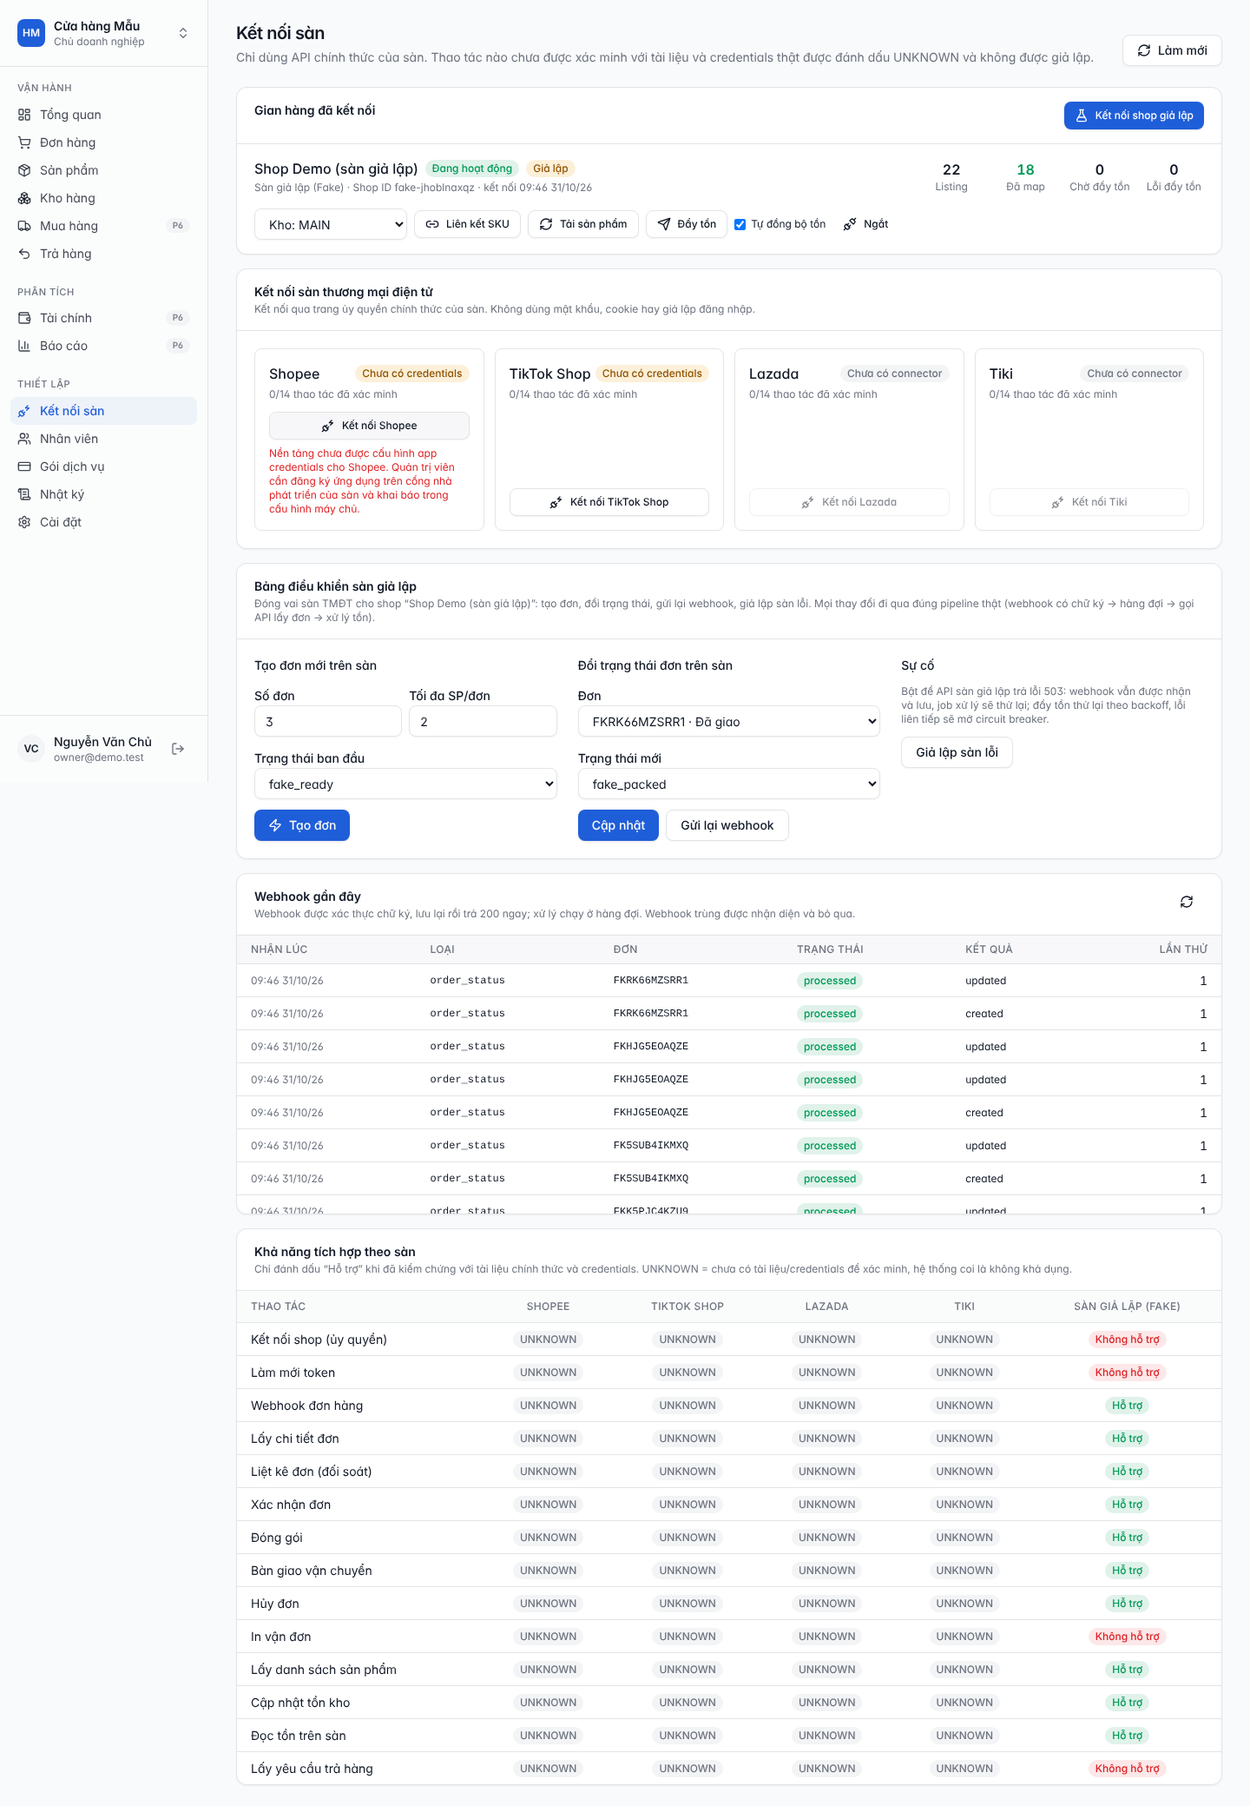
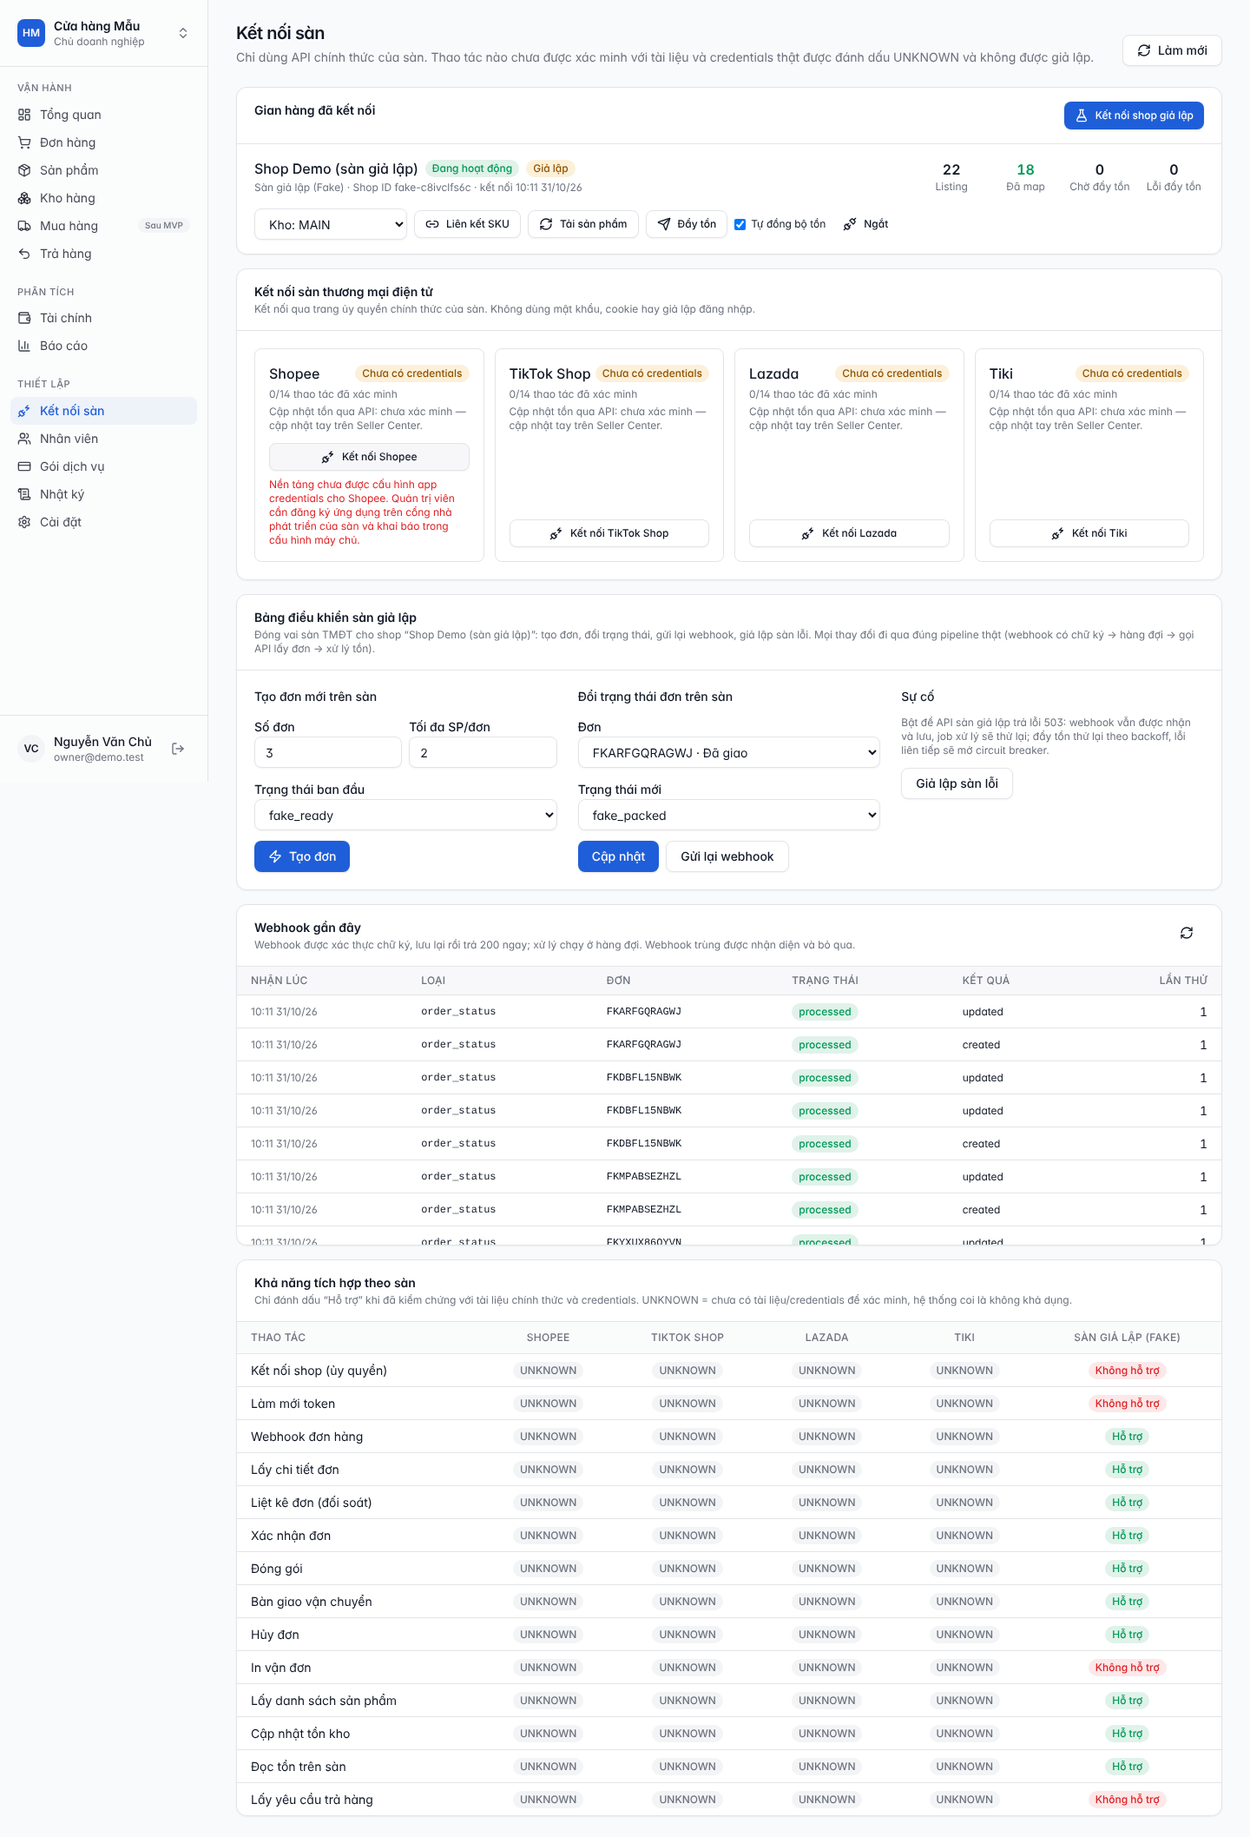
Phase 7: Lazada and Tiki connector skeletons (all capabilities UNKNOWN)
- LazadaConnector, TikiConnector registered; credentials config and .env.example
- Manual stock update guidance where a marketplace cannot (or is not verified to) receive stock via API
- Tests: 6 Pest, 1 Playwright; capability matrix §3.4/3.5, report, screenshot

Claude-Session: https://claude.ai/code/session_01MAbhYsTqNUmf4hXeNZzvjt

diff --git a/resources/js/apps/tenant/pages/marketplaces/Listings.vue b/resources/js/apps/tenant/pages/marketplaces/Listings.vue
@@ -18,7 +18,7 @@ import { api, ApiError } from '@/shared/lib/api';
 import { formatDateTime, formatMoney, formatNumber } from '@/shared/lib/utils';
 import { useToast } from '@/shared/composables/useToast';
 import { useTenantStore } from '@/shared/stores/tenant';
-import { mappingStatus, pushStatus } from '../orders/labels';
+import { manualStockHint, mappingStatus, pushStatus } from '../orders/labels';
 import type { ListingVariantData, MarketplaceAccountData, Variant } from '@/shared/types';
 
 const route = useRoute();
@@ -160,7 +160,8 @@ function pickVariant(v: Variant) {
                             <template v-if="r.push_status">
                                 <Badge :tone="pushStatus[r.push_status]?.tone">{{ pushStatus[r.push_status]?.label ?? r.push_status }}</Badge>
                                 <div v-if="r.last_pushed_qty !== null" class="mt-1 text-muted-foreground">{{ formatNumber(r.last_pushed_qty) }} · {{ formatDateTime(r.last_pushed_at) }}</div>
-                                <div v-if="r.push_error" class="mt-1 text-destructive">{{ r.push_error }}</div>
+                                <div v-if="r.push_status === 'unsupported'" class="mt-1 max-w-56 text-muted-foreground">{{ manualStockHint }}</div>
+                                <div v-else-if="r.push_error" class="mt-1 text-destructive">{{ r.push_error }}</div>
                             </template>
                             <span v-else class="text-muted-foreground">—</span>
                         </td>

diff --git a/e2e/marketplaces.spec.ts b/e2e/marketplaces.spec.ts
@@ -35,3 +35,20 @@ test('TikTok Shop: skeleton connector, connect refused without credentials', asy
     await expect(page.getByTestId('connect-notice-tiktok')).toContainText('chưa được cấu hình app credentials');
     await page.screenshot({ path: 'docs/screenshots/phase-5/01-tiktok-connect-refused.png', clip: { x: 0, y: 0, width: 1440, height: 640 } });
 });
+
+test('Lazada and Tiki: skeleton connectors, connect refused without credentials, manual stock update guidance', async ({ page }) => {
+    await login(page, 'owner@demo.test');
+    await page.goto('/marketplaces');
+    const card = page.getByTestId('real-marketplaces');
+    await expect(card).toContainText('Lazada');
+    await expect(card).toContainText('Tiki');
+    await expect(card).not.toContainText('Chưa có connector');
+    await expect(page.getByTestId('stock-note-tiki')).toContainText('cập nhật tay trên Seller Center');
+
+    await page.getByTestId('connect-lazada').click();
+    await expect(page.getByTestId('connect-notice-lazada')).toContainText('chưa được cấu hình app credentials');
+    await page.getByTestId('connect-tiki').click();
+    await expect(page.getByTestId('connect-notice-tiki')).toContainText('chưa được cấu hình app credentials');
+    await card.scrollIntoViewIfNeeded();
+    await page.screenshot({ path: 'docs/screenshots/phase-7/01-lazada-tiki-connect-refused.png', clip: { x: 0, y: 0, width: 1440, height: 640 } });
+});

diff --git a/resources/js/apps/tenant/pages/marketplaces/Marketplaces.vue b/resources/js/apps/tenant/pages/marketplaces/Marketplaces.vue
@@ -230,9 +230,13 @@ const accountLabel = (a: MarketplaceAccountData) => (a.status !== 'connected' ? 
                         <Badge v-else-if="c.capabilities['shop.authorize'] !== 'supported'" tone="muted">UNKNOWN</Badge>
                         <Badge v-else tone="success">Sẵn sàng</Badge>
                     </div>
-                    <p class="mt-1 flex-1 text-xs text-muted-foreground">
+                    <p class="mt-1 text-xs text-muted-foreground">
                         {{ Object.values(c.capabilities).filter((s) => s === 'supported').length }}/{{ Object.keys(c.capabilities).length }} thao tác đã xác minh
                     </p>
+                    <p v-if="c.capabilities['inventory.update'] !== 'supported'" class="mt-1 flex-1 text-xs text-muted-foreground" :data-testid="`stock-note-${c.key}`">
+                        Cập nhật tồn qua API: {{ c.capabilities['inventory.update'] === 'unsupported' ? 'sàn không hỗ trợ' : 'chưa xác minh' }} — cập nhật tay trên Seller Center.
+                    </p>
+                    <span v-else class="flex-1" />
                     <Button
                         v-if="tenant.can('marketplace.connect')"
                         class="mt-3"

diff --git a/resources/js/apps/tenant/pages/orders/labels.ts b/resources/js/apps/tenant/pages/orders/labels.ts
@@ -115,8 +115,12 @@ export const pushStatus: Record<string, { label: string; tone: Tone }> = {
     retrying: { label: 'Đang thử lại', tone: 'warning' },
     rejected: { label: 'Sàn từ chối', tone: 'danger' },
     failed: { label: 'Lỗi', tone: 'danger' },
-    unsupported: { label: 'Sàn không hỗ trợ', tone: 'muted' },
+    unsupported: { label: 'Cập nhật tay trên sàn', tone: 'muted' },
 };
+
+/** Shown where a marketplace cannot (or is not yet verified to) receive stock updates through its API. */
+export const manualStockHint =
+    'Sàn này chưa cập nhật tồn được qua API. Hãy cập nhật số lượng trên trang quản lý của sàn (Seller Center) theo cột “Có thể bán” trong Kho hàng của ECSO.';
 
 /** Hours left until the ship-by deadline, as a short label ("còn 3 giờ", "quá 2 giờ"). */
 export function deadlineLabel(iso: string | null, now = new Date()): string | null {

diff --git a/tests/Feature/Marketplace/LazadaTikiConnectorTest.php b/tests/Feature/Marketplace/LazadaTikiConnectorTest.php
@@ -1,0 +1,44 @@
+<?php
+
+use App\Modules\Marketplace\Connectors\Capability;
+use App\Modules\Marketplace\Connectors\ConnectorRegistry;
+use App\Modules\Marketplace\Connectors\Lazada\LazadaConnector;
+use App\Modules\Marketplace\Connectors\Tiki\TikiConnector;
+use App\Modules\Marketplace\Models\MarketplaceAccount;
+use App\Modules\Marketplace\Models\WebhookEvent;
+
+beforeEach(function () {
+    [$this->tenant, $this->owner] = tenantWithOwner();
+});
+
+it('registers Lazada and Tiki as skeletons whose capabilities are all UNKNOWN', function (string $key, string $class) {
+    $connector = app(ConnectorRegistry::class)->for($key);
+
+    expect($connector)->toBeInstanceOf($class)
+        ->and(array_unique(array_values($connector->capabilities())))->toBe([Capability::UNKNOWN])
+        // Stock update is UNKNOWN, not claimed as supported nor as unsupported, until the docs are read.
+        ->and($connector->capabilities()[Capability::INVENTORY_UPDATE])->toBe(Capability::UNKNOWN);
+
+    $row = collect(actingInTenant($this->owner, $this->tenant)->getJson('/api/v1/marketplaces')->assertOk()->json('data'))->firstWhere('key', $key);
+    expect($row['available'])->toBeTrue()->and($row['credentials_configured'])->toBeFalse();
+})->with([['lazada', LazadaConnector::class], ['tiki', TikiConnector::class]]);
+
+it('refuses to connect without credentials, and reports UNKNOWN once they exist', function (string $key, array $credentials) {
+    $api = actingInTenant($this->owner, $this->tenant);
+    $api->postJson("/api/v1/marketplace-accounts/authorize/{$key}")->assertStatus(422)->assertJsonPath('code', 'CREDENTIALS_MISSING');
+
+    config(["marketplaces.credentials.{$key}" => $credentials]);
+    $api->postJson("/api/v1/marketplace-accounts/authorize/{$key}")->assertStatus(422)
+        ->assertJsonPath('code', 'UNSUPPORTED_CAPABILITY')->assertJsonPath('state', 'unknown');
+
+    expect(MarketplaceAccount::withoutGlobalScopes()->count())->toBe(0);
+})->with([
+    ['lazada', ['app_key' => 'k', 'app_secret' => 's']],
+    ['tiki', ['client_id' => 'c', 'client_secret' => 's']],
+]);
+
+it('rejects Lazada and Tiki webhooks and keeps them for inspection', function (string $key) {
+    $this->postJson("/api/v1/webhooks/{$key}", ['seller_id' => '1', 'data' => ['order_id' => '9']])->assertStatus(401);
+
+    expect(WebhookEvent::query()->where('marketplace', $key)->value('status'))->toBe(WebhookEvent::REJECTED);
+})->with(['lazada', 'tiki']);

diff --git a/config/marketplaces.php b/config/marketplaces.php
@@ -1,7 +1,9 @@
 <?php
 
 use App\Modules\Marketplace\Connectors\Fake\FakeConnector;
+use App\Modules\Marketplace\Connectors\Lazada\LazadaConnector;
 use App\Modules\Marketplace\Connectors\Shopee\ShopeeConnector;
+use App\Modules\Marketplace\Connectors\Tiki\TikiConnector;
 use App\Modules\Marketplace\Connectors\TikTok\TikTokConnector;
 
 return [
@@ -19,6 +21,8 @@ return [
         // Skeleton: all capabilities UNKNOWN until verified with official docs and partner credentials.
         'shopee' => ShopeeConnector::class,
         'tiktok' => TikTokConnector::class,
+        'lazada' => LazadaConnector::class,
+        'tiki' => TikiConnector::class,
     ],
 
     // App credentials per marketplace (issued by the marketplace's developer portal). Never committed; set on the
@@ -31,6 +35,14 @@ return [
         'tiktok' => [
             'app_key' => env('TIKTOK_SHOP_APP_KEY'),
             'app_secret' => env('TIKTOK_SHOP_APP_SECRET'),
+        ],
+        'lazada' => [
+            'app_key' => env('LAZADA_APP_KEY'),
+            'app_secret' => env('LAZADA_APP_SECRET'),
+        ],
+        'tiki' => [
+            'client_id' => env('TIKI_CLIENT_ID'),
+            'client_secret' => env('TIKI_CLIENT_SECRET'),
         ],
     ],
 

diff --git a/app/Modules/Marketplace/Connectors/Tiki/TikiConnector.php b/app/Modules/Marketplace/Connectors/Tiki/TikiConnector.php
@@ -1,0 +1,25 @@
+<?php
+
+namespace App\Modules\Marketplace\Connectors\Tiki;
+
+use App\Modules\Marketplace\Connectors\UnverifiedConnector;
+
+/**
+ * Tiki Open Platform connector — SKELETON (Phase 7).
+ *
+ * Status: every capability is UNKNOWN. In Phase 0 the public Guides showed OAuth 2.0 and an "event queue"
+ * (polling) for order events, but the endpoint reference sits behind the seller console; in Phase 7
+ * open.tiki.vn was not reachable at all from the build environment. Whether sellers can update stock
+ * through the API is UNKNOWN: if it turns out to be unsupported, the inventory.update capability becomes
+ * `unsupported` and ECSO shows the manual-update guidance instead of pretending the push succeeded.
+ * See docs/API-CAPABILITY-MATRIX.md §3.5.
+ */
+class TikiConnector extends UnverifiedConnector
+{
+    public const MARKETPLACE = 'tiki';
+
+    public function marketplace(): string
+    {
+        return self::MARKETPLACE;
+    }
+}

diff --git a/app/Modules/Marketplace/Connectors/Lazada/LazadaConnector.php b/app/Modules/Marketplace/Connectors/Lazada/LazadaConnector.php
@@ -1,0 +1,23 @@
+<?php
+
+namespace App\Modules\Marketplace\Connectors\Lazada;
+
+use App\Modules\Marketplace\Connectors\UnverifiedConnector;
+
+/**
+ * Lazada Open Platform connector — SKELETON (Phase 7).
+ *
+ * Status: every capability is UNKNOWN. open.lazada.com could not be reached from the build environment
+ * (proxy refused) and no app key / secret or seller test account exist. Secondary sources describe LazOP
+ * REST calls signed with HMAC-SHA256 and OAuth code → token; none of it is implemented until verified.
+ * See docs/API-CAPABILITY-MATRIX.md §3.4.
+ */
+class LazadaConnector extends UnverifiedConnector
+{
+    public const MARKETPLACE = 'lazada';
+
+    public function marketplace(): string
+    {
+        return self::MARKETPLACE;
+    }
+}

diff --git a/docs/PHASE-7-REPORT.md b/docs/PHASE-7-REPORT.md
@@ -1,0 +1,45 @@
+# Báo cáo Phase 7 — Lazada & Tiki (khung connector)
+
+> Ngày: 2026-10-31 · Nhánh: `phase-7-lazada-tiki`
+> **KHÔNG phải tích hợp Lazada/Tiki thật.** `open.lazada.com` và `open.tiki.vn` bị proxy chặn từ môi trường làm việc; chưa có app key/secret, chưa có shop test. Mọi capability là UNKNOWN.
+
+## 1. Đã hoàn thành
+- `LazadaConnector` và `TikiConnector` đã được đăng ký. Mọi capability là UNKNOWN, và mọi lời gọi đều trả `UnsupportedCapability` với trạng thái `unknown`.
+- Cấu hình credentials qua `LAZADA_APP_KEY`, `LAZADA_APP_SECRET`, `TIKI_CLIENT_ID`, `TIKI_CLIENT_SECRET`. Nếu để trống thì không kết nối được và hệ thống báo `CREDENTIALS_MISSING`. `ecso:check-env` có liệt kê các biến này.
+- Webhook của hai sàn bị từ chối (401) và được lưu lại để theo dõi.
+- Tiki: chưa xác định được API có cho cập nhật tồn hay không, nên ghi UNKNOWN chứ không đoán là `unsupported`. Giao diện đã sẵn phần hướng dẫn cập nhật tồn thủ công trên Seller Center, dùng chung cho mọi sàn không cập nhật tồn được qua API.
+
+## 2. File chính
+- `app/Modules/Marketplace/Connectors/Lazada/LazadaConnector.php`
+- `app/Modules/Marketplace/Connectors/Tiki/TikiConnector.php`
+- `config/marketplaces.php`, `.env.example`
+- `tests/Feature/Marketplace/LazadaTikiConnectorTest.php`
+- `Marketplaces.vue`, `Listings.vue`, `orders/labels.ts`
+
+## 3. Migrations
+Không có.
+
+## 4. API mới
+Không có endpoint mới. `POST /marketplace-accounts/authorize/{lazada|tiki}` và `POST /webhooks/{lazada|tiki}` chạy theo luật chung.
+
+## 5. Giao diện
+`docs/screenshots/phase-7/01-lazada-tiki-connect-refused.png`: đủ 4 sàn, không sàn nào báo "Chưa có connector". Mỗi sàn có ghi chú về cập nhật tồn, và khi bấm kết nối thì bị từ chối rõ ràng.
+
+## 6. Test
+- Pest: 6 test mới (dataset cho 2 sàn), tổng 218 test pass.
+- Playwright: 1 test mới.
+
+## 7. Hạn chế
+Chưa làm toàn bộ API của Lazada và Tiki. Event queue của Tiki (polling) sẽ dùng `orders.list` cùng `sync_cursors` khi được hiện thực.
+
+## 8. Rủi ro
+- Lazada có thể dùng gateway riêng theo quốc gia (chưa xác minh).
+- Tiki có thể không cho seller cập nhật tồn qua API. Khi đó khách phải cập nhật tay; cần nói rõ điều này với khách hàng trước khi bán.
+
+## 9. Credentials cần
+- Lazada: `LAZADA_APP_KEY`, `LAZADA_APP_SECRET` và tài khoản seller test Việt Nam.
+- Tiki: `TIKI_CLIENT_ID`, `TIKI_CLIENT_SECRET`.
+- Quyền đọc tài liệu Open Platform của cả hai sàn.
+
+## 10. Tiếp theo
+Phase 8: Production Hardening.

diff --git a/docs/API-CAPABILITY-MATRIX.md b/docs/API-CAPABILITY-MATRIX.md
@@ -94,6 +94,19 @@ Từ Phase 4 có thêm `shop.authorize` (kết nối shop qua trang ủy quyền
 - Đã làm: `TikTokConnector` (UNKNOWN toàn bộ), cấu hình `TIKTOK_SHOP_APP_KEY` / `TIKTOK_SHOP_APP_SECRET`, dùng chung luồng ủy quyền shop của Phase 4. Webhook `/api/v1/webhooks/tiktok` bị từ chối kể cả khi có header `Authorization` trông hợp lệ: thông tin thứ cấp về chữ ký HMAC-SHA256 **chưa được xác minh** nên không được dùng.
 - Chưa làm: ký request, version API theo ngày, token, đơn, sản phẩm, tồn, webhook, ánh xạ trạng thái, rate limit.
 
+### 3.4 Lazada — trạng thái Phase 7 (2026-10-31)
+
+- Kiểm tra truy cập `open.lazada.com` từ môi trường build: **bị chặn** (proxy từ chối kết nối). Không có app key/secret, không có tài khoản seller test.
+- Đã làm: `LazadaConnector` (UNKNOWN toàn bộ), cấu hình `LAZADA_APP_KEY` / `LAZADA_APP_SECRET`, dùng chung luồng ủy quyền shop. Webhook `/api/v1/webhooks/lazada` bị từ chối (401) và lưu lại để theo dõi.
+- Chưa làm: ký request (thông tin thứ cấp: HMAC-SHA256 — chưa xác minh), token, đơn, sản phẩm, tồn, push, ánh xạ trạng thái, rate limit, khu vực (VN dùng gateway riêng — chưa xác minh).
+
+### 3.5 Tiki — trạng thái Phase 7 (2026-10-31)
+
+- Kiểm tra truy cập `open.tiki.vn` từ môi trường build: **bị chặn** ở Phase 7 (Phase 0 đọc được mục lục Guides: OAuth 2.0, event queue dạng polling). Không có client id/secret.
+- Đã làm: `TikiConnector` (UNKNOWN toàn bộ), cấu hình `TIKI_CLIENT_ID` / `TIKI_CLIENT_SECRET`, dùng chung luồng ủy quyền shop. Webhook `/api/v1/webhooks/tiki` bị từ chối.
+- **Cập nhật tồn**: UNKNOWN — không biết API cho seller có cho cập nhật tồn hay không. Không ghi `unsupported` khi chưa đọc được tài liệu. Giao diện đã sẵn: thẻ sàn ghi "Cập nhật tồn qua API: chưa xác minh — cập nhật tay trên Seller Center"; nếu sau này xác minh là không hỗ trợ, connector trả `UnsupportedCapability`, outbox ghi `unsupported` và trang Liên kết SKU hiển thị hướng dẫn cập nhật tay theo cột "Có thể bán".
+- Chưa làm: event queue (polling — cần `orders.list` + cursor sẵn có trong `sync_cursors`), token, đơn, sản phẩm, ánh xạ trạng thái.
+
 ## 4. Rủi ro tích hợp đã thấy
 
 1. **Không có credentials và không đọc được docs chính thức** ⇒ chưa thể cam kết lịch Phase 4–7. Mọi connector sẽ chỉ có Fake adapter cho tới khi có tài khoản.

diff --git a/docs/CHANGELOG.md b/docs/CHANGELOG.md
@@ -4,6 +4,11 @@
 
 ## [Unreleased]
 
+### Phase 7 — Lazada & Tiki (khung) (2026-10-31)
+- `LazadaConnector`, `TikiConnector` (UNKNOWN toàn bộ), cấu hình `LAZADA_APP_KEY/SECRET`, `TIKI_CLIENT_ID/SECRET`; dùng chung luồng ủy quyền shop.
+- Hướng dẫn cập nhật tồn thủ công khi sàn chưa/không cập nhật tồn được qua API (thẻ sàn và trang Liên kết SKU); trạng thái đẩy tồn `unsupported` đổi nhãn thành "Cập nhật tay trên sàn".
+- **Không** có tích hợp Lazada/Tiki thật: tài liệu bị chặn từ môi trường làm việc, chưa có credentials.
+
 ### Phase 6 — SaaS Commercial (2026-10-31)
 - Thanh toán **chuyển khoản ngân hàng, admin xác nhận** (quyết định của chủ dự án). Thiết kế cắm thêm cổng (`PaymentGateway`, `GatewayRegistry`, IPN `POST /billing/notifications/{gateway}`); VNPay/PayOS/MoMo chưa làm (UNKNOWN, chưa có hợp đồng/credentials).
 - Hóa đơn (`invoices`) với mã nội dung chuyển khoản riêng; thanh toán (`payments`) idempotent theo (provider, mã giao dịch): cùng một giao dịch ghi nhận lần hai không cộng thêm kỳ. Chuyển thiếu được cộng dồn; tiền vào hóa đơn đã đóng ghi `unapplied` để đối soát/hoàn.

diff --git a/docs/TESTING.md b/docs/TESTING.md
@@ -85,4 +85,5 @@ CI (GitHub Actions): service MySQL 8 + Redis, chạy lint (Pint, ESLint), PHPSta
 | 4 | 192 (9 mới: ủy quyền shop, state một lần, chống chiếm shop, giới hạn shop) | – | 16 | 20 |
 | 5 | 195 (3 mới) | – | 16 | 21 |
 | 6 | 212 (17 mới: hóa đơn, idempotency thanh toán, chuyển thiếu/thừa, nâng gói trừ tiền, hạ gói bị chặn/hẹn, dùng thử 1 lần, gia hạn/quá hạn/về Free, IPN giả lập ký HMAC, đếm đơn, tách tenant, admin MRR, tài chính, báo cáo, gating `reports.advanced`) | – | 19 | 23 |
+| 7 | 218 (6 mới: Lazada/Tiki UNKNOWN, từ chối kết nối, từ chối webhook) | – | 19 | 24 |
 | 3 | 183 (41 mới: pipeline đơn, webhook trùng/sai thứ tự, hủy, trả hàng, đẩy tồn, API) | 5 kịch bản (mới: 1.000 đơn / 50 SKU / 20 tiến trình, webhook gửi trùng) | 16 | 18 (6 mới) |
